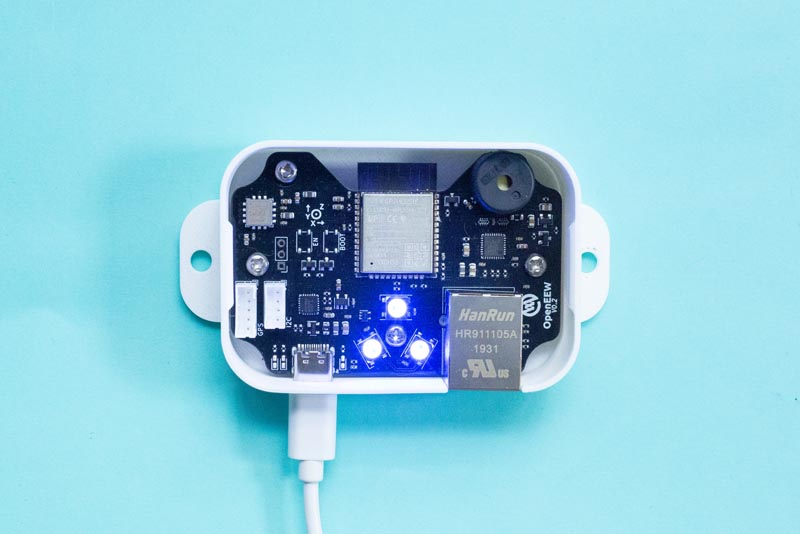
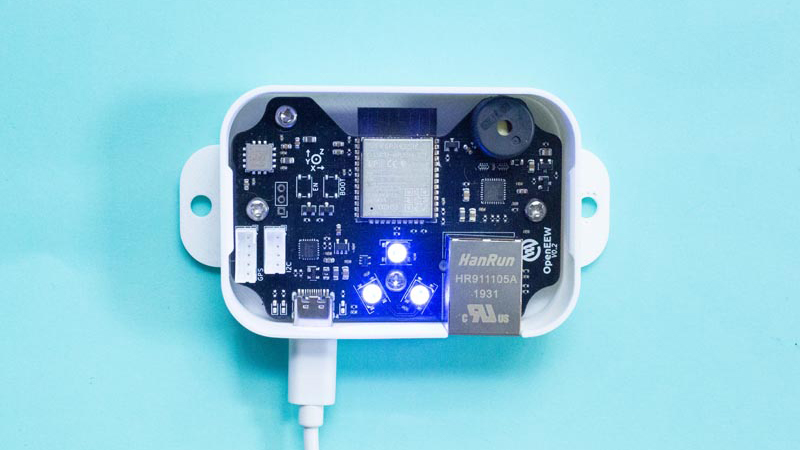
Modify diagram photo, reduce header text size, change sensor photo

Changed region(s): [[0.125, 0.1867, 0.7812, 1.0], [0.7188, 0.4356, 0.75, 0.5289], [0.75, 0.5289, 0.7812, 0.56]]

diff --git a/src/styles/Landing.scss b/src/styles/Landing.scss
@@ -32,7 +32,7 @@
       flex: 0 0 50%;
       display: flex;
       align-items: center;
-      padding: 1.5rem;
+      padding: 8rem 0 6rem 8rem;
     }
 
     .landing__openEEWWrapper {
@@ -47,8 +47,8 @@
 
         @media screen and (min-width: $medium) {
           width: 7rem;
-          top: 20px;
-          left: 140px;
+          top: -1px;
+          left: 90px;
         }
       }
 
@@ -57,7 +57,7 @@
         margin-bottom: 1rem;
 
         @media screen and (min-width: $medium) {
-          width: 7rem;
+          width: 4rem;
         }
       }
 
@@ -78,13 +78,12 @@
     }
 
     h1 {
-      @include carbon--type-style('productive-heading-06');
-      border-left: 1px solid #3bb1a1;
+      @include carbon--type-style('productive-heading-07');
+      border-left: 2px solid #55a4c9;
       padding-left: 2rem;
+      font-size: 2.3rem;
 
-      @media screen and (min-width: $medium) {
-        @include carbon--type-style('productive-heading-07');
-      }
+
     }
   }
 }
@@ -92,7 +91,7 @@
 .landing__diagram {
   display: flex;
   justify-content: center;
-  background-color: #1d1d1d;
+  background-color: #bdbdbd;
   border-top: 1px solid white;
   border-bottom: 1px solid white;
   padding: 1rem;

diff --git a/src/components/Sensors.js b/src/components/Sensors.js
@@ -1,6 +1,6 @@
 import React, { useContext } from 'react';
 import { Grid, Row, Column, Button } from 'carbon-components-react';
-import sensor3D from '../content/assets/sensor3d.jpg';
+import board from '../content/assets/openeew-node-board.jpg';
 import nodeBlue from '../content/assets/openeew-node-blue.jpg';
 import dashboard from '../content/assets/dash.jpg';
 import AppContext from '../context/app';
@@ -26,14 +26,14 @@ const SensorInfo = () => {
         <Column lg={{ span: 6, offset: 4 }}>
           <img
             className="sensor-image"
-            src={nodeBlue}
+            src={board}
             alt="A 3D printed sensor"
           ></img>
         </Column>
         <Column lg={6}>
           <img
             className="sensor-image"
-            src={sensor3D}
+            src={nodeBlue}
             alt="The OpenEEW Sensor"
           ></img>
         </Column>

diff --git a/src/components/Diagram.js b/src/components/Diagram.js
@@ -1,5 +1,5 @@
 import React, { useContext } from 'react';
-import landscape from '../content/assets/landscape.jpg';
+import landscape from '../content/assets/landscape_grey.jpg';
 
 import AppContext from '../context/app';
 
